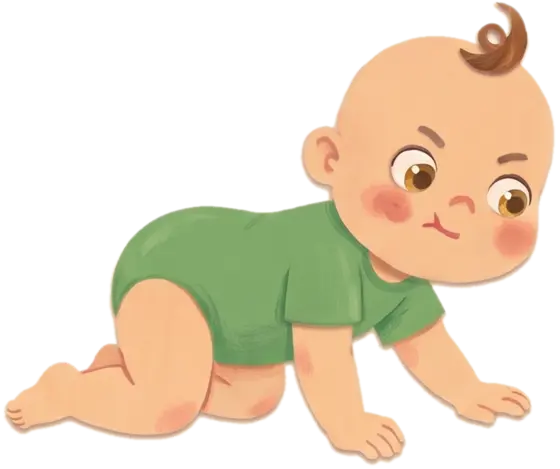
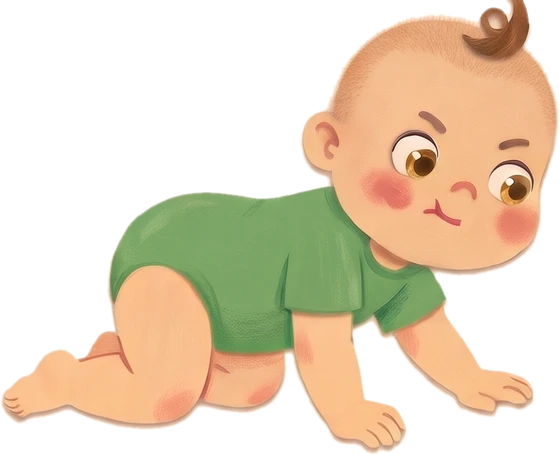
Biblia: desde el libro 4 sin remolino ni colita; herramienta para ajustar el pelo; figuras de Tomi de la web con la hoja nueva
Claude-Session: https://claude.ai/code/session_01D1pUKWwo8J3jsyg297Aijq

diff --git a/ilustraciones/herramientas/pelo.py b/ilustraciones/herramientas/pelo.py
@@ -1,0 +1,25 @@
+#!/usr/bin/env python3
+# Ajusta el pelo del bebé en páginas ya hechas, según la hoja de personajes aprobada.
+# uso: pelo.py varon|mujer 2|3 URL_HOJA imagen.png [...]   (2|3 = libro, para la cantidad de pelo)  → guarda imagen-pelo.png al lado de cada una
+import sys, subprocess, json
+from concurrent.futures import ThreadPoolExecutor
+genero, libro, hoja, *imgs = sys.argv[1:]
+NIVEL = {"2": " The hair is only a very short, soft, thin light chestnut fuzz over the whole scalp: the skin of the head still shows through it; it is NOT a haircut, has no volume and no fringe.",
+         "3": " The hair is a short, even baby haircut that fully covers the scalp, clearly more than a fuzz, not reaching the eyebrows."}[libro]
+nene = ("Change ONLY the baby's hair so it matches exactly the hair of the baby in the second image (the approved character sheet): "
+        "same amount, length, coverage of the scalp and light chestnut-brown color, keeping his big curl standing up above the forehead.")
+nena = ("Change ONLY the baby girl's hair so it matches exactly the hair of the baby girl in the second image (the approved character sheet): "
+        "same amount, length, coverage of the scalp and light chestnut-brown color, with her small tuft and the small coral flower clip on top.")
+PROMPT = ("Edit the first image with minimal changes. " + (nene if genero == "varon" else nena) +
+          NIVEL + " If the baby appears several times, change every copy. Keep EVERYTHING else exactly identical: the baby's face, expression, "
+          "pose, clothes and size; the adults (same faces, light skin, hair and clothes); the ball, the room, the rug, the floor, "
+          "the colors, the composition and the cut-paper style. No text.")
+def subir(f):
+    r = subprocess.run(["python3", "herramientas/subir.py", f], capture_output=True, text=True).stdout.strip()
+    return r
+def correr(f):
+    url = subir(f); out = f[:-4] + "-pelo.png"
+    r = subprocess.run(["python3", "herramientas/kie.py", "nano-banana-2", "auto", "2K", out, PROMPT, url, hoja], capture_output=True, text=True)
+    return f, (r.stdout + r.stderr).strip()[-160:]
+with ThreadPoolExecutor(8) as ex:
+    for f, s in ex.map(correr, imgs): print(f, s, flush=True)

diff --git a/biblia/personajes.md b/biblia/personajes.md
@@ -8,7 +8,7 @@ Narra en primera persona. Es curioso, insistente y se ríe cuando algo le sale. 
 
 ### Rasgos que no cambian en ningún libro
 
-- Pelo **castaño claro**, con un **remolino** arriba de la frente que se le para siempre.
+- Pelo **castaño claro**, con un **remolino** arriba de la frente que se le para (solo en los libros 1 a 3; desde el libro 4 el pelo crece normal y ya no tiene remolino).
 - Ojos grandes y redondos, **color miel**.
 - Piel clara de tono durazno cálido, cachetes rosados (cambiado el 26 de octubre de 2026: un par de tonos más clara que la propuesta original).
 - **Color propio: verde hoja.** Siempre lleva algo verde (body, remera, medias, casco).
@@ -35,12 +35,12 @@ Narra en primera persona. Es curioso, insistente y se ríe cuando algo le sale. 
 - **Libro 1:** casi pelado, solo el remolino.
 - **Libro 2:** pelusa castaña clara, cortita, que ya se ve en toda la cabeza, con el remolino.
 - **Libro 3:** pelo corto parejo que cubre la cabeza, con el remolino.
-- **Desde el libro 4:** un poco más en cada libro.
+- **Desde el libro 4 (decidido el 27 de octubre de 2026):** se terminan el remolino de Tomi y el mechoncito parado de Emi. El pelo crece de forma normal, un poco más en cada libro, siempre castaño claro.
 - Regla: en cada libro el pelo es **igual o más** que en el anterior, nunca menos. Antes de ilustrar, comparar con las hojas de los libros anteriores.
 
 ## Emi (versión mujer)
 
-Igual a Tomi en todo (cara, piel, ojos, ropa, edad y lo que puede hacer), con **la misma cantidad de pelo que Tomi en cada libro**, más un mechoncito arriba con una **flor coral**. Se hace editando las imágenes de Tomi.
+Igual a Tomi en todo (cara, piel, ojos, ropa, edad y lo que puede hacer), con **la misma cantidad de pelo que Tomi en cada libro**, más un mechoncito arriba con una **flor coral** (libros 1 a 3). **Desde el libro 4:** sin mechoncito ni colita; lleva un **ganchito con una flor coral** en algún lugar del pelo. Se hace editando las imágenes de Tomi.
 
 ## Rula
 
